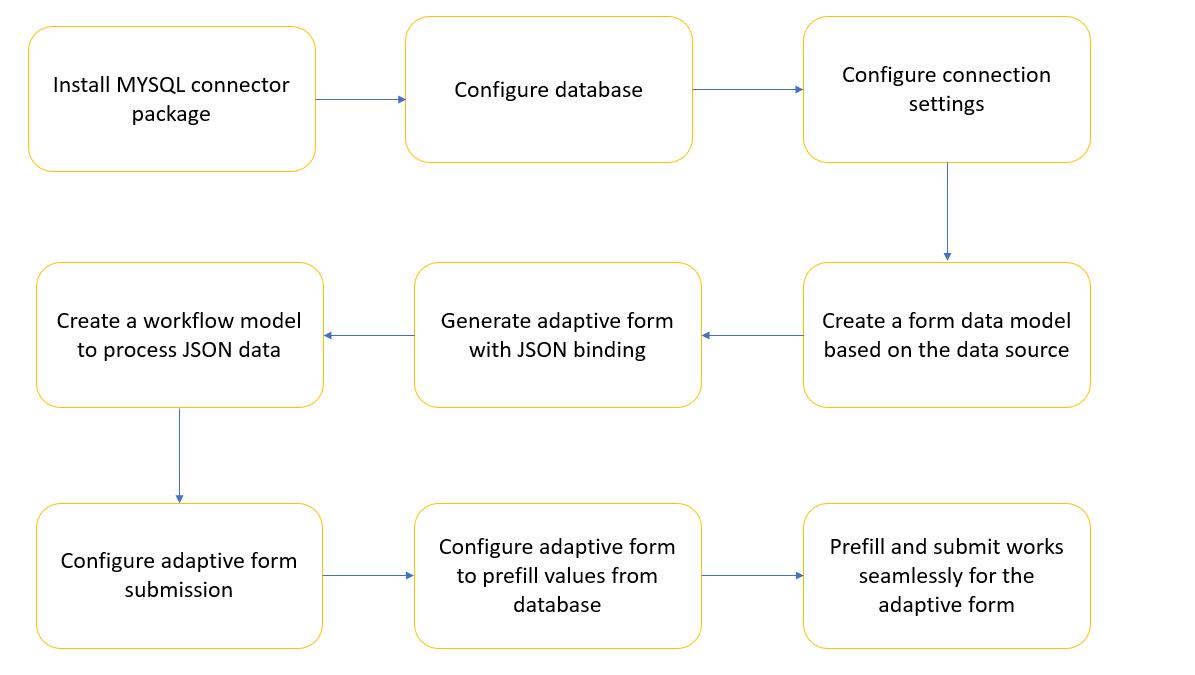
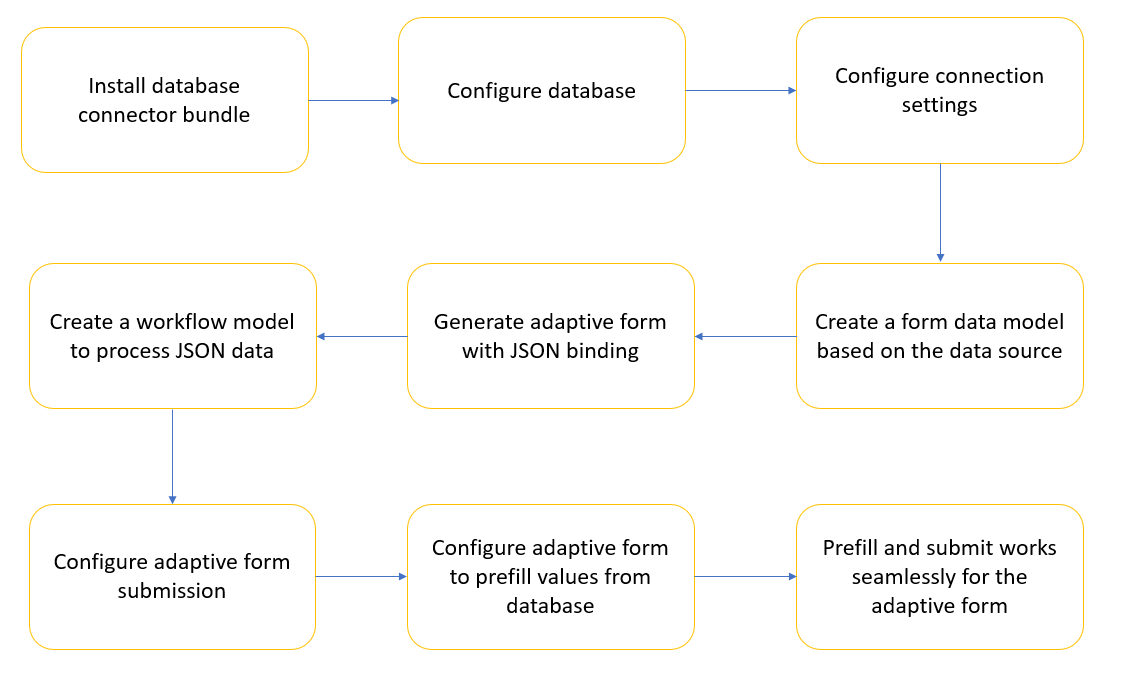
Incorporated PM review comments and updated the TOC file

diff --git a/help/submit-converted-adaptive-form-to-database.md b/help/submit-converted-adaptive-form-to-database.md
@@ -6,11 +6,11 @@ topic-tags: forms
 discoiquuid: cad72699-4a4b-4c52-88a5-217298490a7c
 ---
 
-# Integrate converted adaptive form with database using AEM workflow {#submit-forms-to-database-using-forms-portal}
+# Integrate adaptive form with database using AEM workflow {#submit-forms-to-database-using-forms-portal}
 
 Automated Forms Conversion service allows you to convert a non-interactive PDF form, an Acro Form, or an XFA based PDF form into an adaptive form. While initiating the conversion process, you have the option of generating an adaptive form either with or without data bindings.
 
-If you select to generate an adaptive form without data bindings, you can integrate the converted adaptive form with a Form Data Model, XML schema, or a JSON schema after conversion. However, if you generate an adaptive form with data bindings, the conversion service automatically associates the adaptive form(s) with a JSON schema and creates a data binding between the fields available in the adaptive form and JSON schema. You can then integrate the adaptive form with a database of your choice, fill data in the form, and submit it to the database. Similarly, after successful integration with the database, you can configure fields in the converted adaptive form to retrieve values from the database and prefill adaptive form fields.
+If you select to generate an adaptive form without data bindings, you can integrate the converted adaptive form with a form data model, XML schema, or a JSON schema after conversion. For form data model, you need to bind adaptive form fields manually with the form data model. However, if you generate an adaptive form with data bindings, the conversion service automatically associates the adaptive form(s) with a JSON schema and creates a data binding between the fields available in the adaptive form and JSON schema. You can then integrate the adaptive form with a database of your choice, fill data in the form, and submit it to the database. Similarly, after successful integration with the database, you can configure fields in the converted adaptive form to retrieve values from the database and prefill adaptive form fields.
 
 The following figure depicts different stages of integrating a converted adaptive form with a database:
 

diff --git a/help/TOC.md b/help/TOC.md
@@ -19,3 +19,4 @@ user-guide-title: Adobe Experience Manager Forms Automated Conversion Service
 + [Frequently asked questions](frequently-asked-questions.md)
 + [Best practices and considerations](styles-and-pattern-considerations-and-best-practices.md)
 + [Known Issues](known-issues.md)
++ [Integrate adaptive form with database using AEM workflow](submit-converted-adaptive-form-to-database.md)
